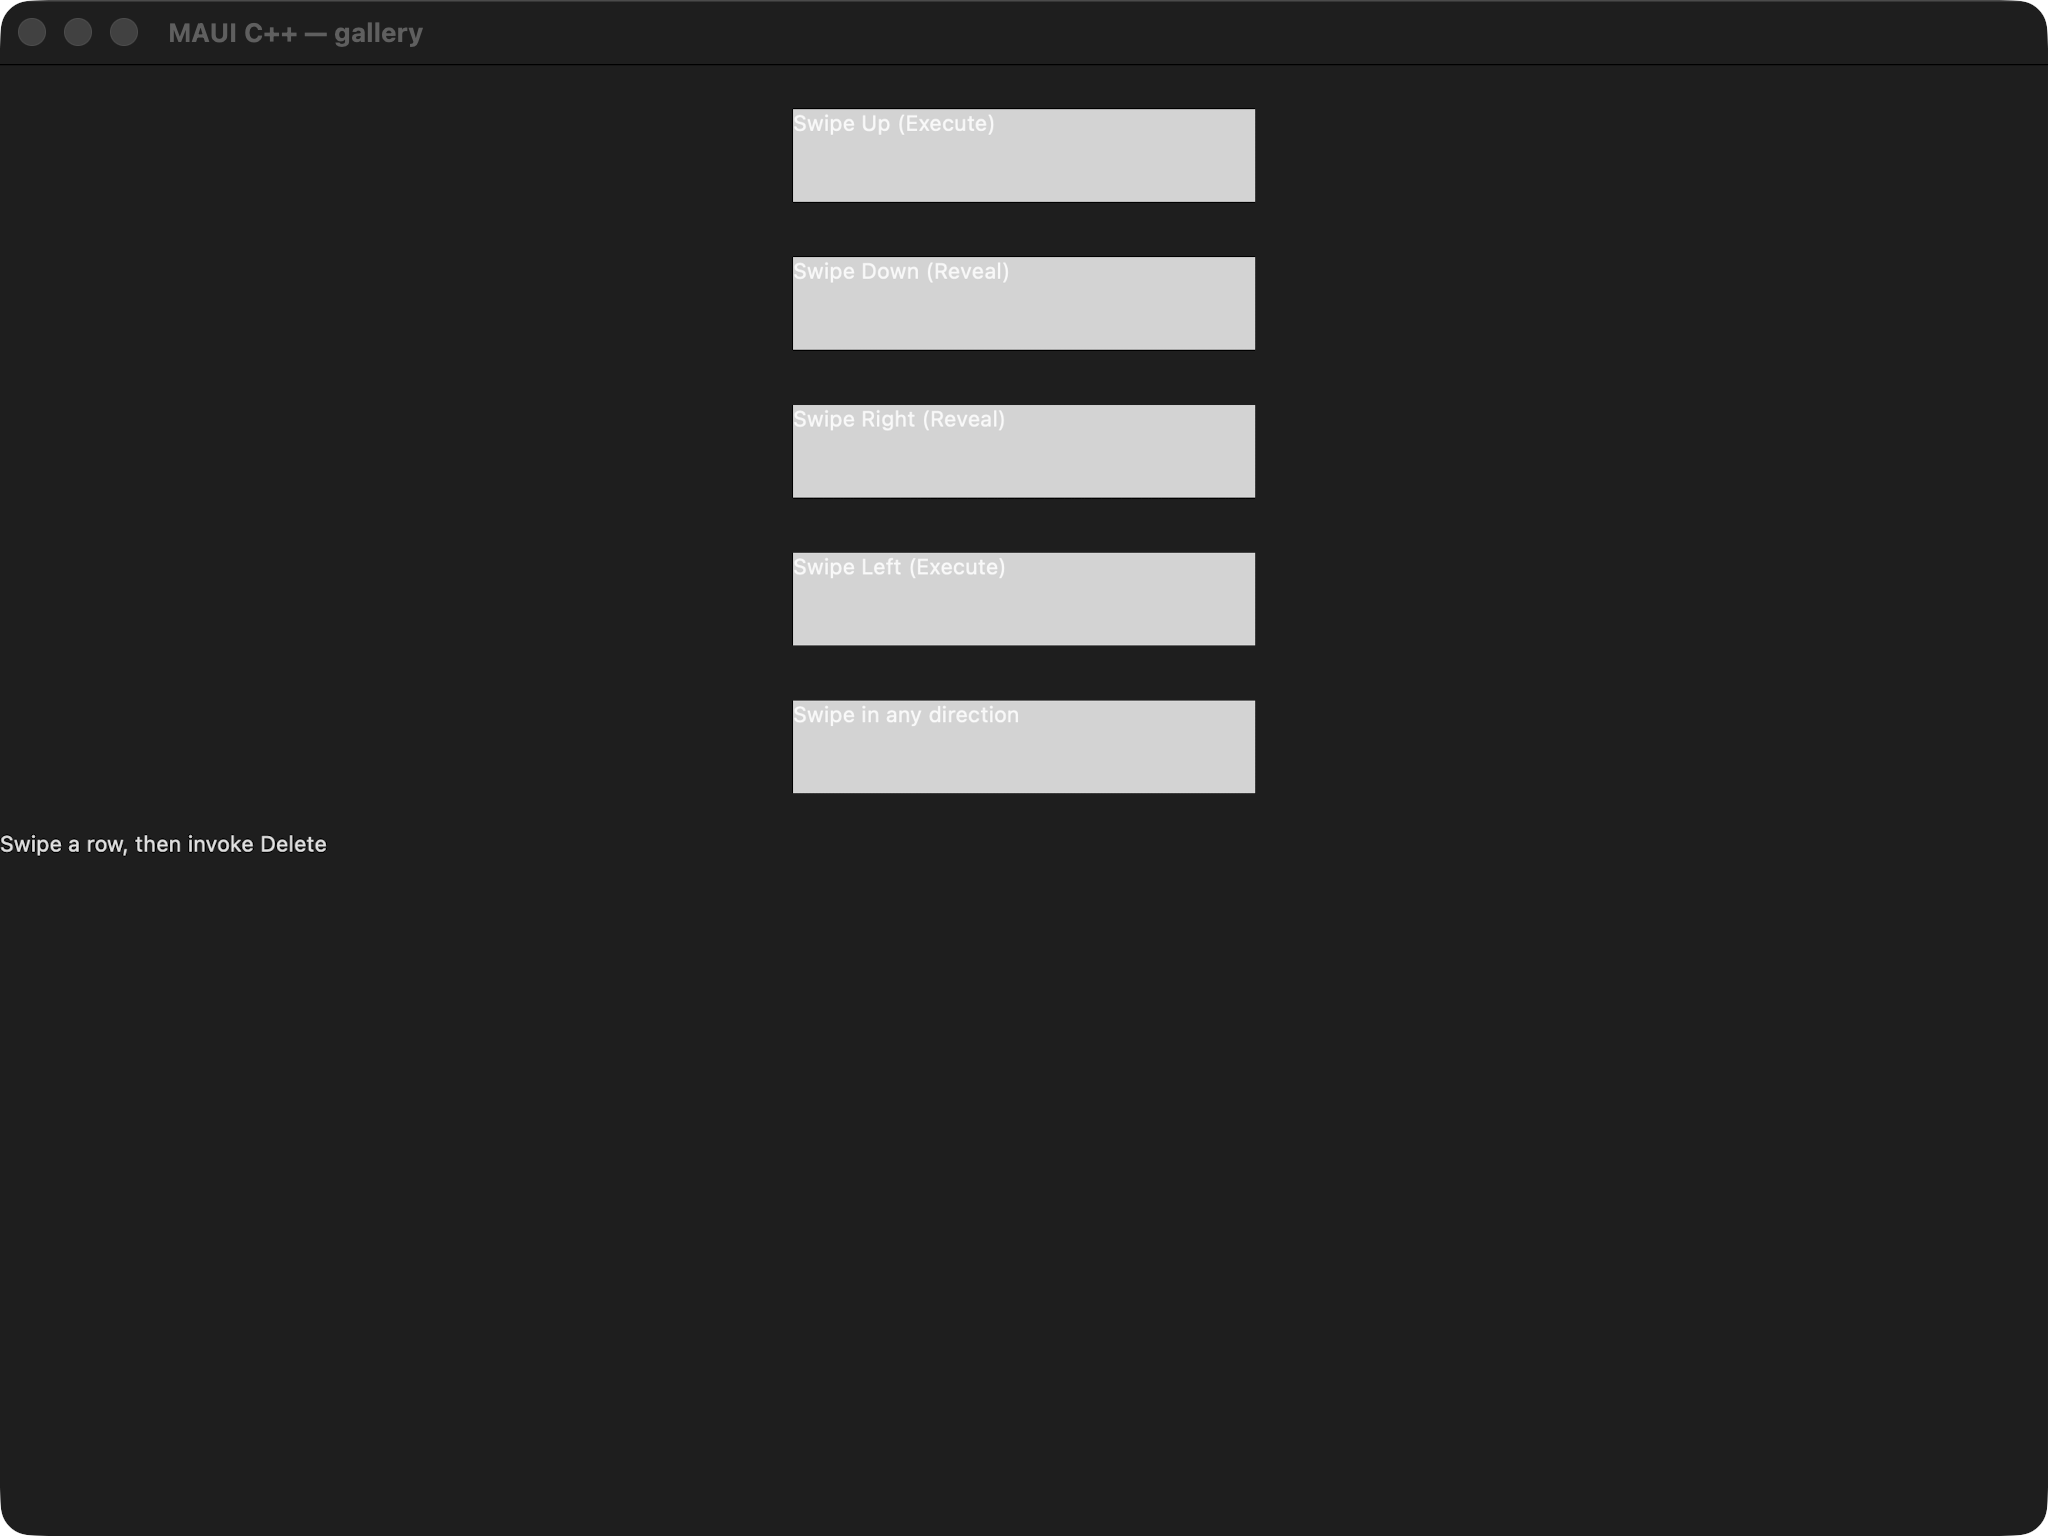
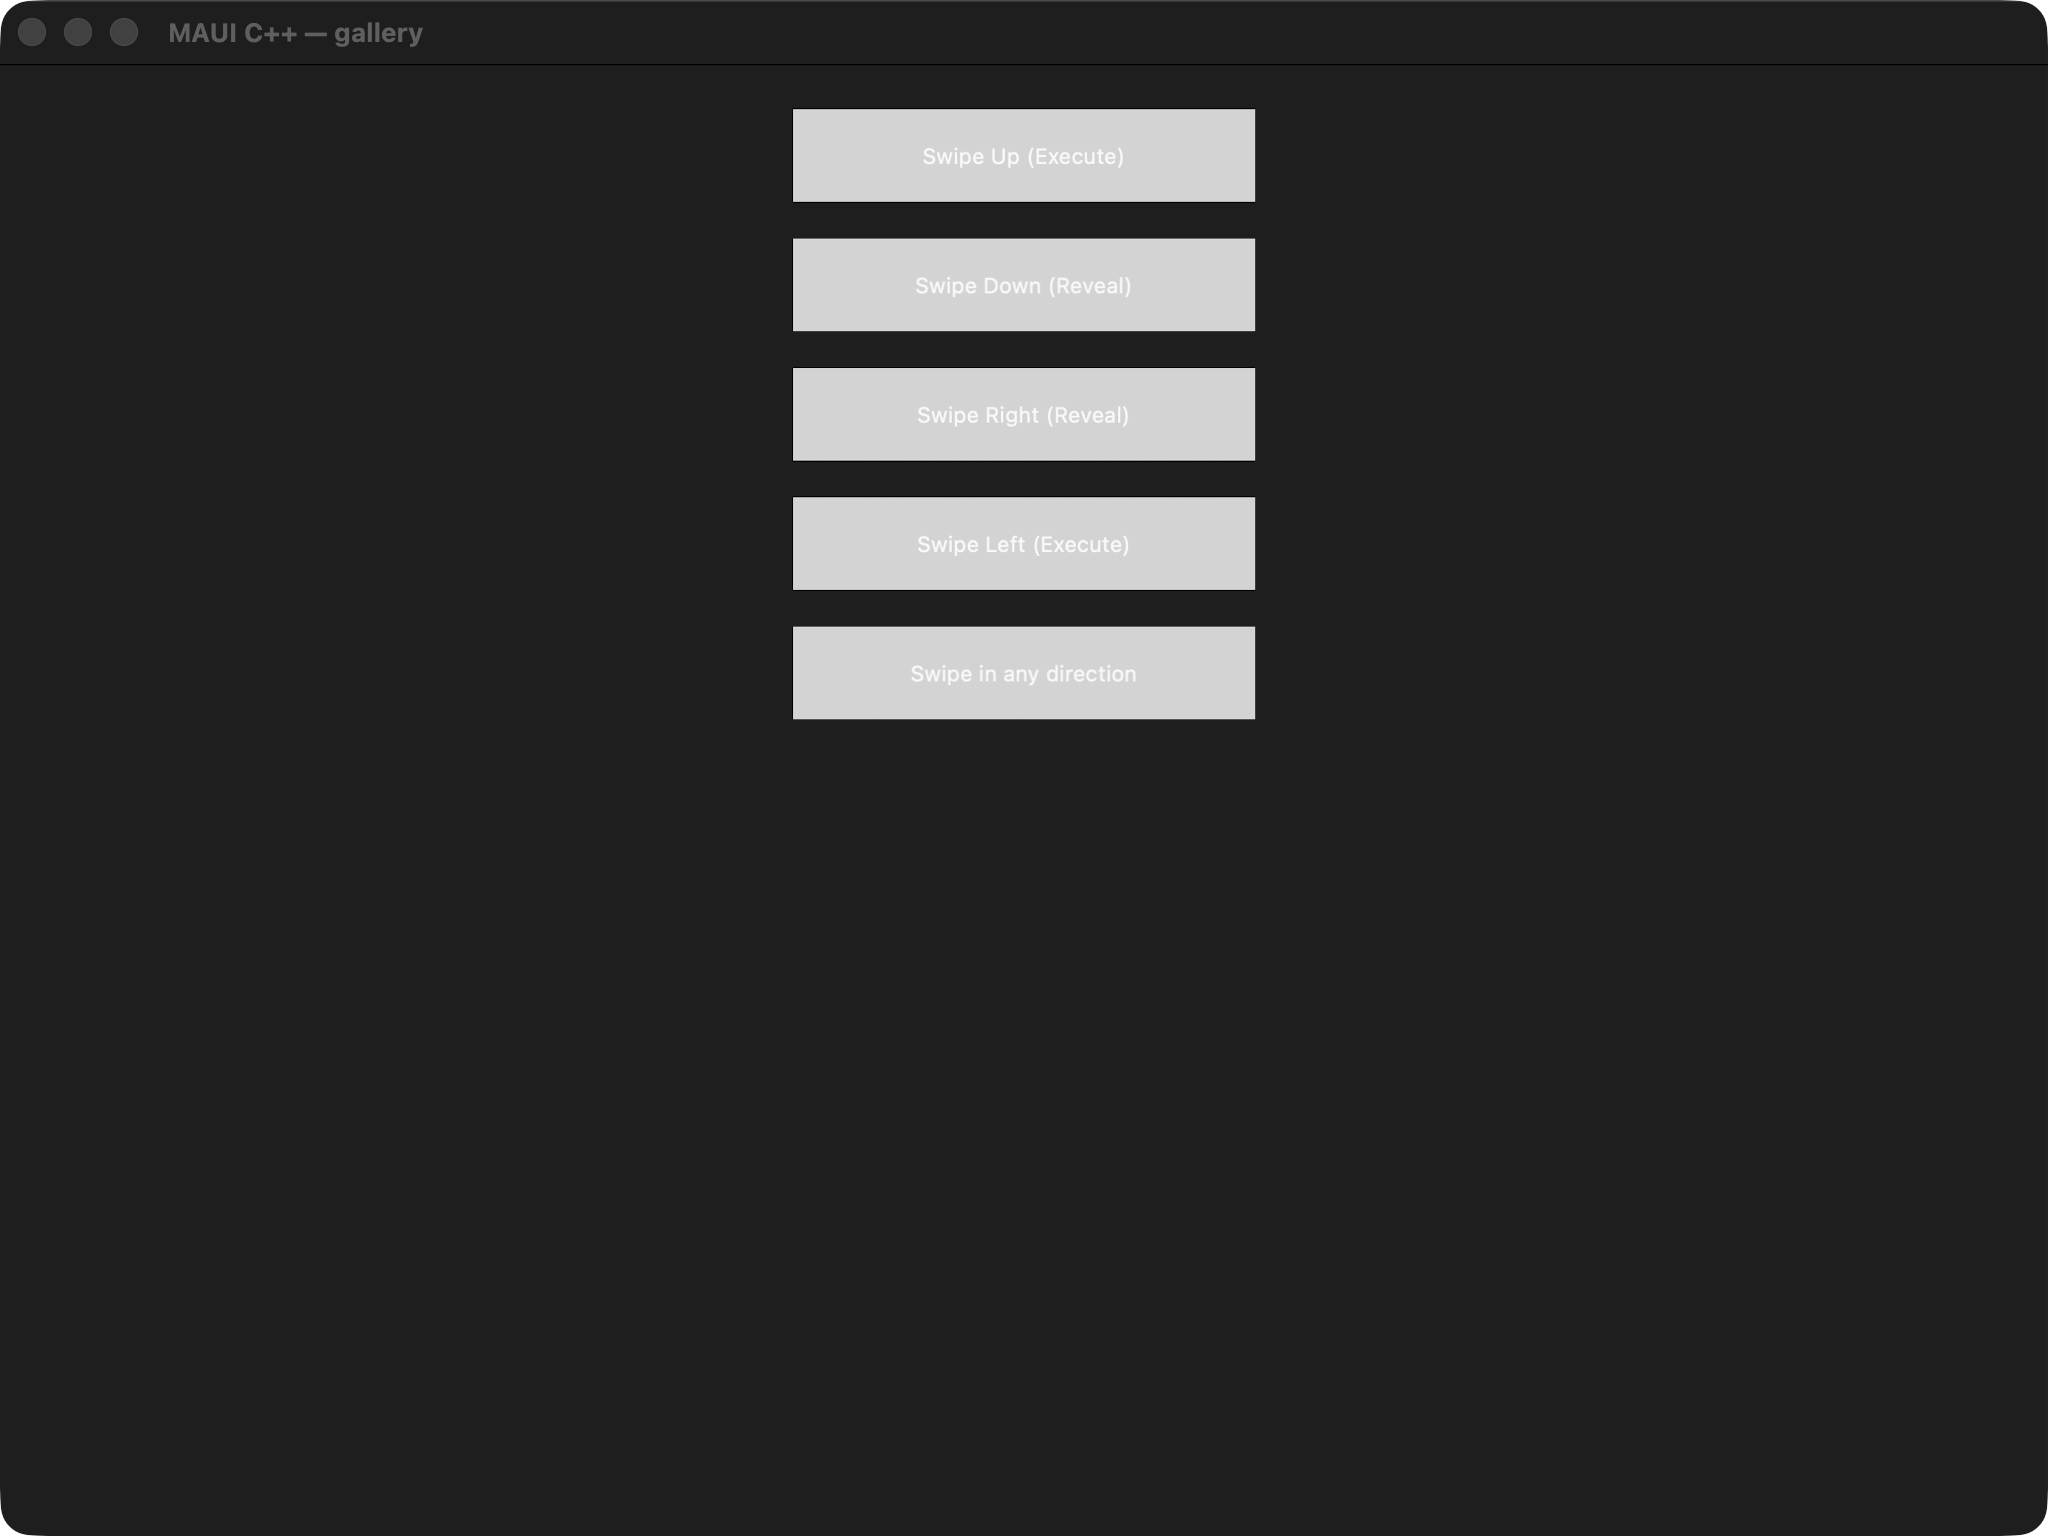
fix(gallery): basic_swipe builder drift (labels/spacing/readout) -> green (maccatalyst 126->127 green)
First real-delta-tier yellow. Three builder drifts vs the shared basic_swipe.xaml:
- the five gray content-Grid Labels are HorizontalOptions/VerticalOptions=Center in the
  XAML but the builder left them top-left — added set_*_layout_alignment(center) via a
  center() helper.
- removed set_spacing(12) on the StackLayout: the shared <StackLayout> has no Spacing
  (default 0) and the SwipeView Margin=12 supplies the row gaps; the extra spacing made cpp
  rows 57px apart vs MAUI's 39px. Now 39px == MAUI (the consistency guardrail caught this:
  cpp was 7% vs MAUI / xaml 4.8% before the spacing fix; now both ~4.8% = harness inset).
- dropped the port-only 'Swipe a row, then invoke Delete' readout from the visual tree
  (shared XAML has none; kept off-tree for the Delete Invoked handlers) + removed the
  on_mounted synthetic open. Structure-equivalence test green.

maccatalyst cpp 127 green / 46 yellow / 3 red. Consistency 0/520.

Changed region(s): [[0.375, 0.1562, 0.625, 0.5312], [0.0, 0.5312, 0.1562, 0.5625], [0.4375, 0.0625, 0.4688, 0.0938]]

diff --git a/port/cpp/examples/gallery/pages/basic_swipe_page.hpp b/port/cpp/examples/gallery/pages/basic_swipe_page.hpp
@@ -44,12 +44,11 @@
 #include "maui/controls/swipe_item.hpp"
 #include "maui/controls/swipe_view.hpp"
 #include "maui/controls/vertical_stack_layout.hpp"
-#include "maui/core/open_swipe_item.hpp"
+#include "maui/core/layout_alignment.hpp"
 #include "maui/core/swipe_mode.hpp"
 #include "maui/core/thickness.hpp"
 #include "maui/graphics/colors.hpp"
 #include "maui/graphics/solid_paint.hpp"
-#include "maui/hosting/maui_app.hpp"
 
 namespace maui::samples
 {
@@ -59,15 +58,19 @@ namespace maui::samples
         basic_swipe_page()
         {
             page_.set_title("SwipeView");
-            stack_.set_spacing(12);
+            // The shared basic_swipe.xaml's <StackLayout> has NO Spacing (default 0); each SwipeView's
+            // Margin="12" provides the row gaps. An earlier set_spacing(12) here over-spaced the rows vs MAUI.
 
-            readout_.set_text("Swipe a row, then invoke Delete");
+            // The shared basic_swipe.xaml has NO readout label — the five SwipeViews are the only content.
+            // readout_ is a port-only interactive stand-in (a Delete SwipeItem's Invoked writes to it), kept
+            // OFF the visual tree so the resting capture matches MAUI.
 
             // ---- 1. BottomItems, Execute: one red Delete (coffee.png), Invoked → readout ----
             bottom_content_.set_height_request(60);
             bottom_content_.set_width_request(300);
             bottom_content_.set_background(gray());
             bottom_label_.set_text("Swipe Up (Execute)");
+            center(bottom_label_);
             bottom_content_.add(bottom_label_);
 
             bottom_delete_.set_text("Delete");
@@ -85,6 +88,7 @@ namespace maui::samples
             top_content_.set_width_request(300);
             top_content_.set_background(gray());
             top_label_.set_text("Swipe Down (Reveal)");
+            center(top_label_);
             top_content_.add(top_label_);
 
             top_view_.set_text("View");
@@ -111,6 +115,7 @@ namespace maui::samples
             left_content_.set_width_request(300);
             left_content_.set_background(gray());
             left_label_.set_text("Swipe Right (Reveal)");
+            center(left_label_);
             left_content_.add(left_label_);
 
             left_view_.set_text("Test (Ajg)");
@@ -137,6 +142,7 @@ namespace maui::samples
             right_content_.set_width_request(300);
             right_content_.set_background(gray());
             right_label_.set_text("Swipe Left (Execute)");
+            center(right_label_);
             right_content_.add(right_label_);
 
             right_delete_.set_text("Delete");
@@ -156,6 +162,7 @@ namespace maui::samples
             any_content_.set_width_request(300);
             any_content_.set_background(gray());
             any_label_.set_text("Swipe in any direction");
+            center(any_label_);
             any_content_.add(any_label_);
 
             any_left_.set_text("LeftItem");
@@ -188,8 +195,6 @@ namespace maui::samples
             any_swipe_.set_content(any_content_);
             any_swipe_.set_margin(maui::core::thickness(12)); // XAML SwipeView Margin="12"
             stack_.add(any_swipe_);
-
-            stack_.add(readout_);
             page_.set_content(stack_);
         }
 
@@ -198,15 +203,10 @@ namespace maui::samples
             return page_;
         }
 
-        // POST-MOUNT hook (gallery_host.hpp gallery_post_mount): after the generic mount has attached every
-        // handler + built the native tree, synthetically open the first swipe_view toward its populated
-        // BottomItems side so a static capture shows the revealed item (the swipe-to-reveal gesture has no
-        // headless analogue). open() routes through the now-attached handler (swipe_view_seam tests). All the
-        // per-control attach + re-host plumbing is now the generic mount's job.
-        void on_mounted(maui::hosting::maui_app& /*app*/)
-        {
-            bottom_swipe_.open(maui::core::open_swipe_item::bottom_items);
-        }
+        // No post-mount synthetic drive: the shared basic_swipe.xaml is captured at REST — all five SwipeViews
+        // are CLOSED, showing only their gray content Grids (the swipe items are the swipe-revealed layer,
+        // hidden at rest). Synthetically open()ing the first swipe diverged from that resting appearance.
+        // (The Delete SwipeItems' Invoked handlers still update the off-tree readout interactively.)
 
         // The owned controls, exposed for the hosting main's bottom-up handler attachment + the tests.
         [[nodiscard]] maui::controls::vertical_stack_layout& stack()
@@ -258,6 +258,13 @@ namespace maui::samples
         static std::shared_ptr<maui::graphics::solid_paint> gray()
         {
             return std::make_shared<maui::graphics::solid_paint>(maui::graphics::colors::light_gray);
+        }
+        // The XAML content Labels are HorizontalOptions="Center" VerticalOptions="Center" — centered in the
+        // gray Grid. Mirror that (the builder previously left them at the default top-left).
+        static void center(maui::controls::label& label)
+        {
+            label.set_horizontal_layout_alignment(maui::core::layout_alignment::center);
+            label.set_vertical_layout_alignment(maui::core::layout_alignment::center);
         }
         static std::shared_ptr<maui::controls::file_image_source> icon(const char* file)
         {

diff --git a/port/cpp/docs/comparison/README.md b/port/cpp/docs/comparison/README.md
@@ -3687,8 +3687,8 @@ _Not yet computed — no automated pixel-diff score is recorded for this page ye
 
 | Classification | Sonnet 5 | Gemini |
 | --- | --- | --- |
-| 🟢 Match | 126 | 0 |
-| 🟡 Minor | 47 | 0 |
+| 🟢 Match | 127 | 0 |
+| 🟡 Minor | 46 | 0 |
 | 🔴 Major | 3 | 0 |
 | ⬛ Blank | 7 | 0 |
 | ⏳ Unreviewed | 12 | 195 |
@@ -3883,16 +3883,16 @@ _Not yet reviewed._
 
 _Not yet computed — no automated pixel-diff score is recorded for this page yet._
 
-### 11. Basic Swipe — 🟡/⏳
+### 11. Basic Swipe — 🟢/⏳
 <sub>basic_swipe</sub>
 
 <table><tr><th></th><th>MAUI</th><th>C++</th><th>C++ &amp; XAML</th><th>AppKit / C++</th><th>AppKit / C++ &amp; XAML</th></tr><tr><th>Light</th><td><img width="300px" src="../../../maui-reference/captures/maccatalyst/basic_swipe_light.png" /></td><td><img width="300px" src="captures/maccatalyst/cpp/basic_swipe_light.png" /></td><td><img width="300px" src="captures/maccatalyst/xaml/basic_swipe_light.png" /></td><td><img width="300px" src="captures/maccatalyst/appkit_cpp/basic_swipe_light.png" /></td><td><img width="300px" src="captures/maccatalyst/appkit_xaml/basic_swipe_light.png" /></td></tr><tr><th>Dark</th><td><img width="300px" src="../../../maui-reference/captures/maccatalyst/basic_swipe_dark.png" /></td><td><img width="300px" src="captures/maccatalyst/cpp/basic_swipe_dark.png" /></td><td><img width="300px" src="captures/maccatalyst/xaml/basic_swipe_dark.png" /></td><td><img width="300px" src="captures/maccatalyst/appkit_cpp/basic_swipe_dark.png" /></td><td><img width="300px" src="captures/maccatalyst/appkit_xaml/basic_swipe_dark.png" /></td></tr></table>
 
 ports BasicSwipeGallery.xaml A code-first port of the MAUI SwipeView sub-gallery Pages/Controls/SwipeViewGalleries/BasicSwipeGallery.xaml: a vertical StackLayout of five SwipeViews, each demonstrating a different revealed-side / SwipeMode c
 
-#### 🟡 Sonnet 5 Review
+#### 🟢 Sonnet 5 Review
 
-C1/C3: five swipe boxes have correct size, width, spacing and gray fill in both themes, but the box labels are anchored top-left instead of MAUI's centered text, and a stray 'Swipe a row, then invoke Delete' helper label is rendered at the far window-left below the stack (absent in the MAUI capture). Dark theme additionally renders the box text white vs MAUI's dark-on-gray... (MAUI dark uses light text too, matches). Alignment + stray label = content diffs.
+C1/C3: fixed three builder drifts vs the shared XAML — (1) the five gray content-Grid Labels now HorizontalOptions/VerticalOptions=Center (were top-left), (2) removed the port-only 'Swipe a row, then invoke Delete' readout from the tree (shared XAML has none), (3) removed set_spacing(12) on the StackLayout (shared &lt;StackLayout&gt; has no Spacing=default 0; the SwipeView Margin=12 supplies the gaps) — row gaps now 39px == MAUI (were 57px). Also dropped the on_mounted synthetic open. Five centered gray boxes with centered labels now match MAUI in both themes (4.77% vs MAUI == the xaml column, all harness-inset).
 
 #### ⏳ Gemini Review
 
